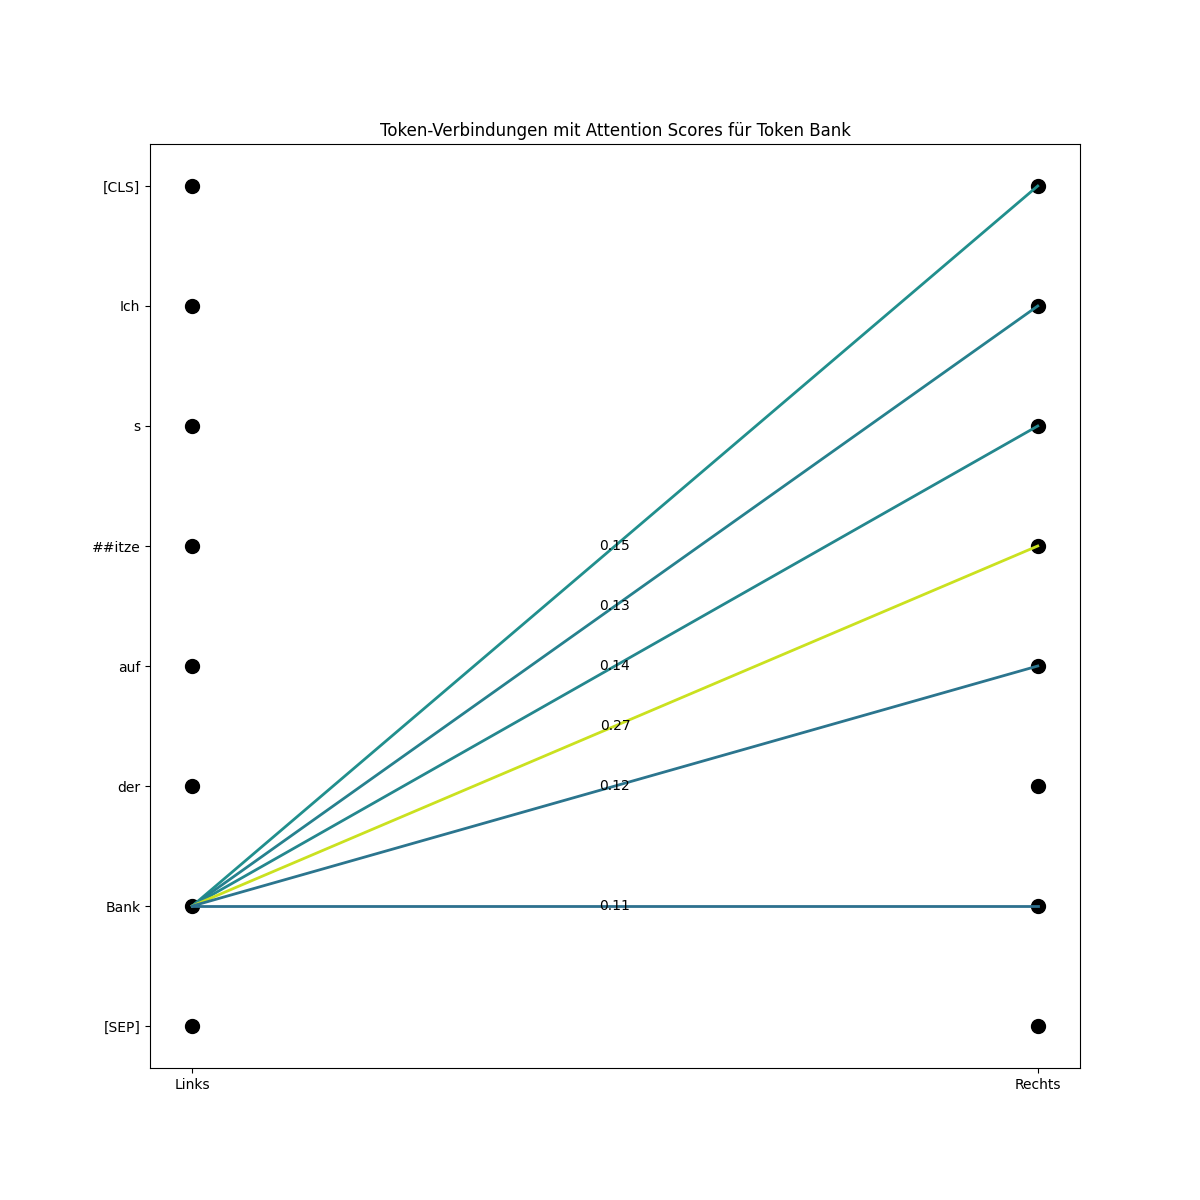
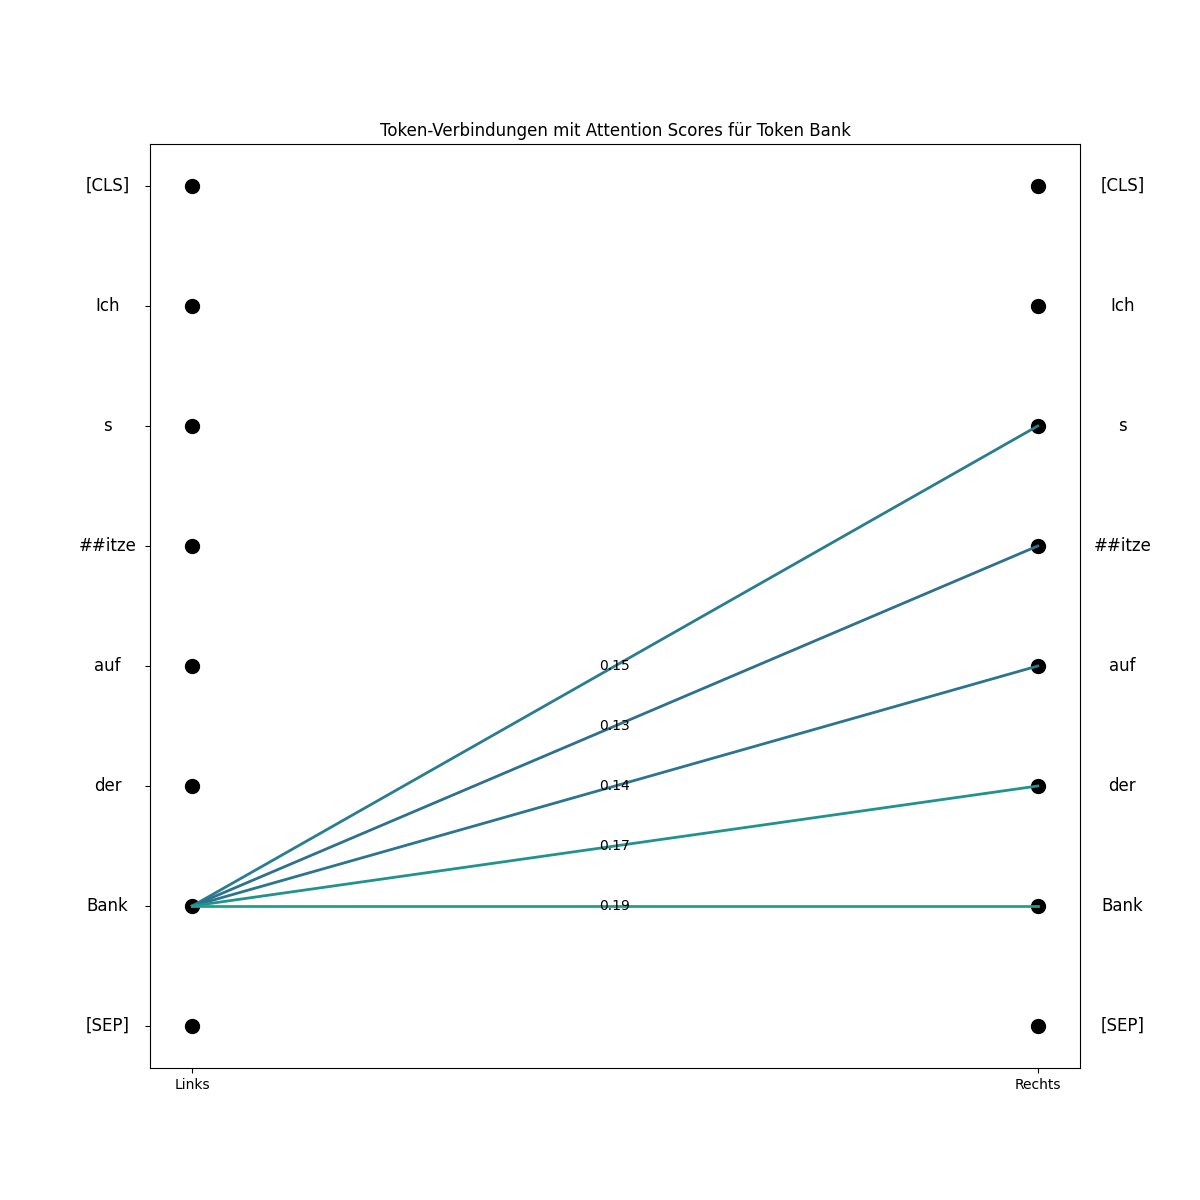
Verbesserte Skalierung

diff --git a/Demo/Demo transformer/demo.py b/Demo/Demo transformer/demo.py
@@ -84,8 +84,16 @@ for i in range(len(tokens)):
             ax.plot([0, 1], [y_positions[i], y_positions[j]], color=color, lw=2)
             ax.text(0.5, (y_positions[i] + y_positions[j]) / 2, f'{weight:.2f}', ha='center', va='center', fontsize=10)
 
+    # Token-Namen nur an der Y-Achse links anbringen
+    for idx, token in enumerate(tokens):
+        ax.text(-0.1, y_positions[idx], token, ha='center', va='center', fontsize=12, color='black')
+
+    # Token-Namen an der Y-Achse auf der rechten Seite anbringen
+    for idx, token in enumerate(tokens):
+        ax.text(1.1, y_positions[idx], token, ha='center', va='center', fontsize=12, color='black')
+
     ax.set_yticks(y_positions)
-    ax.set_yticklabels(tokens)
+    ax.set_yticklabels([])  # Entferne die Y-Achsenbeschriftungen, da die Tokens jetzt manuell hinzugefügt werden
     ax.set_xticks([0, 1])
     ax.set_xticklabels(['Links', 'Rechts'])
     plt.title(f'Token-Verbindungen mit Attention Scores für Token {tokens[i]}')
@@ -112,9 +120,17 @@ for i in range(len(tokens)):
             color = cmap(norm(weight))
             ax.plot([0, 1], [y_positions[i], y_positions[j]], color=color, lw=2)
 
+# Token-Namen nur an der Y-Achse links anbringen
+for idx, token in enumerate(tokens):
+    ax.text(-0.1, y_positions[idx], token, ha='center', va='center', fontsize=12, color='black')
+
+# Token-Namen an der Y-Achse auf der rechten Seite anbringen
+for idx, token in enumerate(tokens):
+    ax.text(1.1, y_positions[idx], token, ha='center', va='center', fontsize=12, color='black')
+
 # Achsenticks und -labels
 ax.set_yticks(y_positions)
-ax.set_yticklabels(tokens)
+ax.set_yticklabels([])  # Entferne die Y-Achsenbeschriftungen, da die Tokens jetzt manuell hinzugefügt werden
 ax.set_xticks([0, 1])
 ax.set_xticklabels(['Links', 'Rechts'])
 plt.title('Alle Token-Verbindungen')
